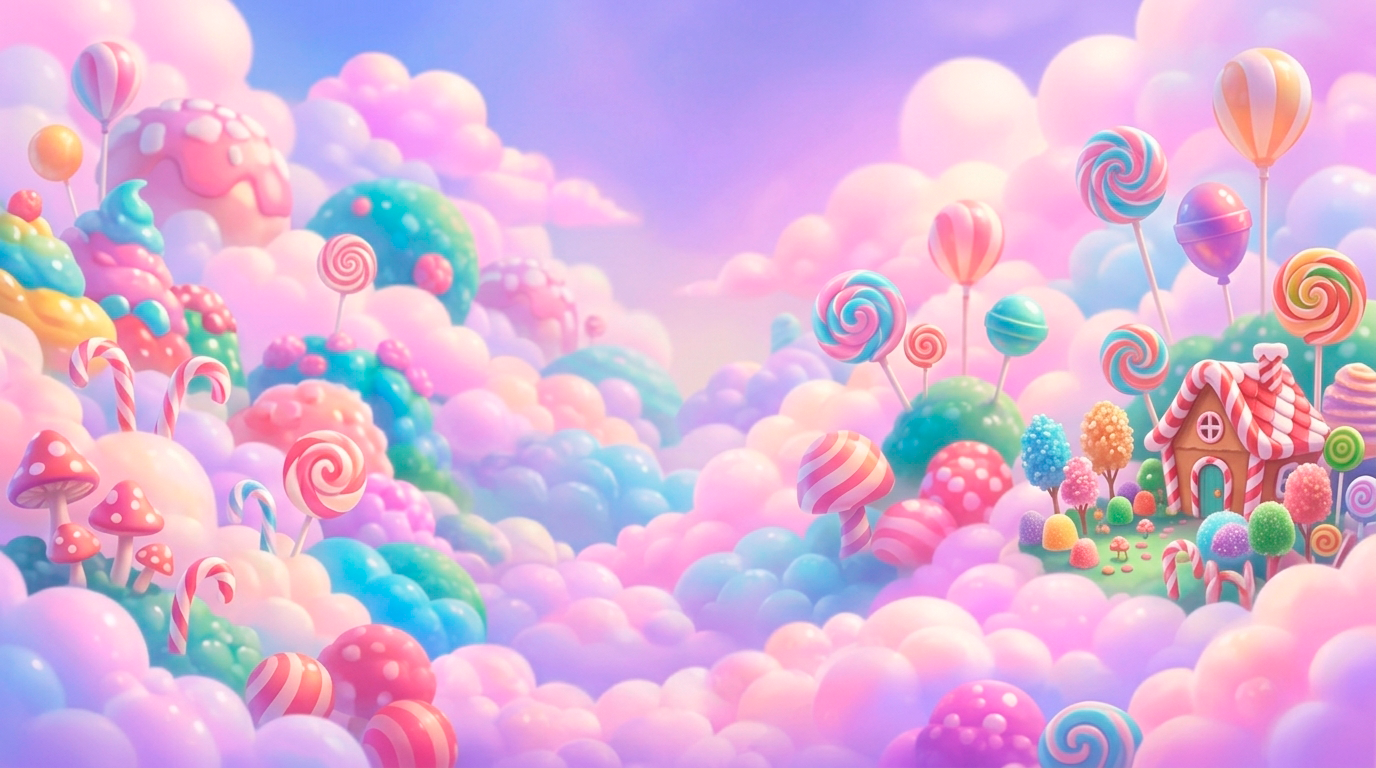
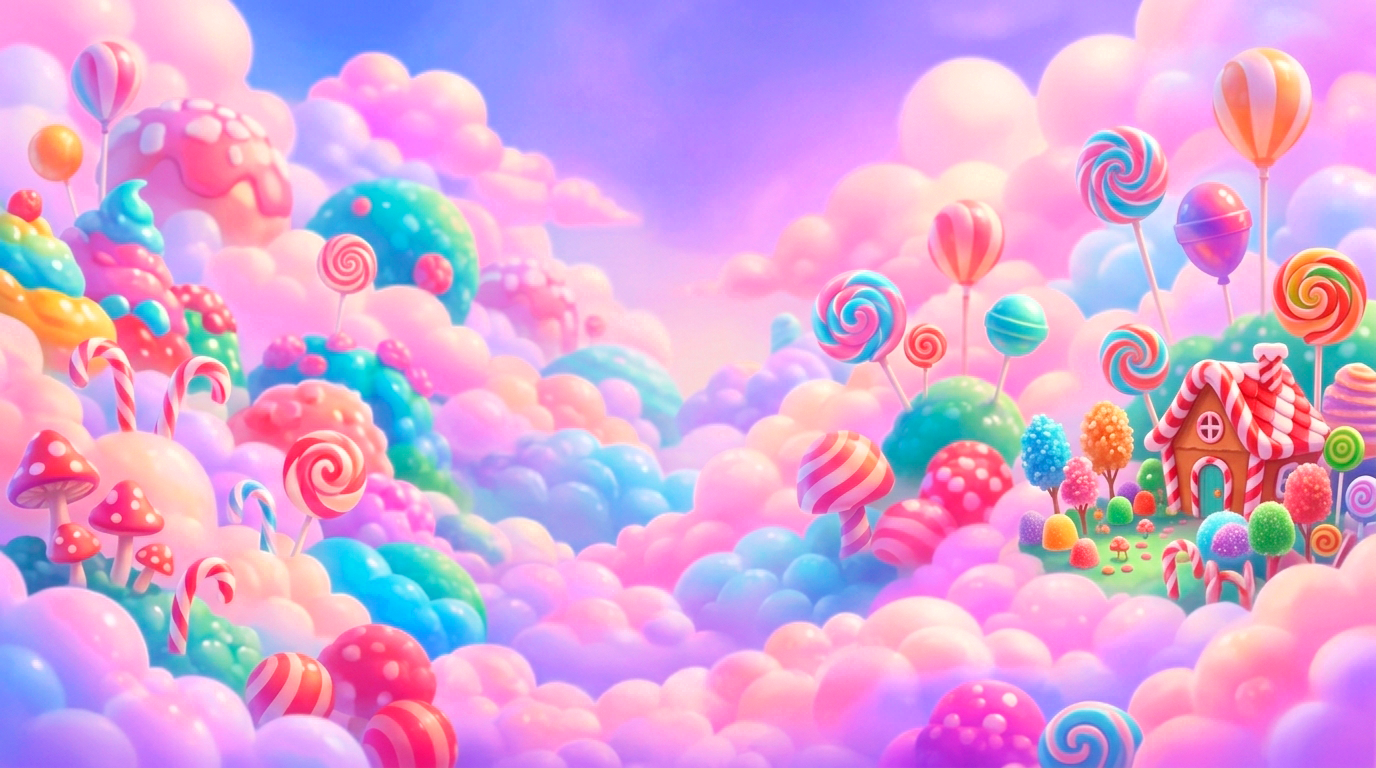
feat: update gameplay background images and add vibrance boosting script

diff --git a/tools/boost_gameplay_vibrance.py b/tools/boost_gameplay_vibrance.py
@@ -1,0 +1,58 @@
+#!/usr/bin/env python3
+"""Поднимает насыщенность/яркость крупных фоновых поверхностей геймплея.
+
+Зачем: пэкшот (`you_won`/`gift`/`bonus_10`, meanSat 0.56-0.85) читается "сочнее" основной игры не
+потому, что блоки/кнопки блёклые — они уже яркие (`block_len2_h_obst` meanSat 0.94, `star_on` 0.87,
+кнопки 0.46-0.52). Разница в том, что САМЫЕ БОЛЬШИЕ по площади поверхности геймплея — фон и плата —
+пастельные (`bg_gameplay` meanSat 0.298, `Board_full` meanSat 0.319), и именно они держат общее
+визуальное впечатление от сцены. Пэкшотные панели — бесподложечный акцентный арт того же дизайнера,
+не крупная заливка, поэтому сравнение "на глаз" воспринимается как "пэкшот ярче".
+
+Правим только эти две поверхности (не блоки, не UI — они уже на уровне пэкшота, трогать не нужно):
+`bg_gameplay.png`, `Board_full.png`. Модель — умножение S и V в HSV, hue не трогаем (чтобы не
+уехать с утверждённой палитры розово-сиреневого мармелада), только альфа-непрозрачные пиксели.
+Белая сетка платы (S=0) от умножения S не меняется, V близко к 1 — потолок клампится, линия
+остаётся чистым белым.
+
+Запуск: python3 tools/boost_gameplay_vibrance.py [--sat 1.3] [--val 1.05]
+"""
+import argparse
+import colorsys
+
+import numpy as np
+from PIL import Image
+
+TARGETS = [
+    "assets/art/bg/bg_gameplay.png",
+    "assets/art/board/Board_full.png",
+]
+
+
+def boost(path, sat_mult, val_mult):
+    im = Image.open(path).convert("RGBA")
+    arr = np.array(im).astype(np.float64) / 255.0
+    r, g, b, a = arr[..., 0], arr[..., 1], arr[..., 2], arr[..., 3]
+
+    hsv = np.vectorize(colorsys.rgb_to_hsv)(r, g, b)
+    h, s, v = hsv
+    s = np.clip(s * sat_mult, 0.0, 1.0)
+    v = np.clip(v * val_mult, 0.0, 1.0)
+    r2, g2, b2 = np.vectorize(colorsys.hsv_to_rgb)(h, s, v)
+
+    out = np.dstack([r2, g2, b2, a])
+    out = np.rint(np.clip(out, 0.0, 1.0) * 255.0).astype(np.uint8)
+    Image.fromarray(out, "RGBA").save(path)
+    print(f"{path}: sat x{sat_mult}, val x{val_mult}")
+
+
+def main():
+    ap = argparse.ArgumentParser()
+    ap.add_argument("--sat", type=float, default=1.3)
+    ap.add_argument("--val", type=float, default=1.05)
+    args = ap.parse_args()
+    for path in TARGETS:
+        boost(path, args.sat, args.val)
+
+
+if __name__ == "__main__":
+    main()
